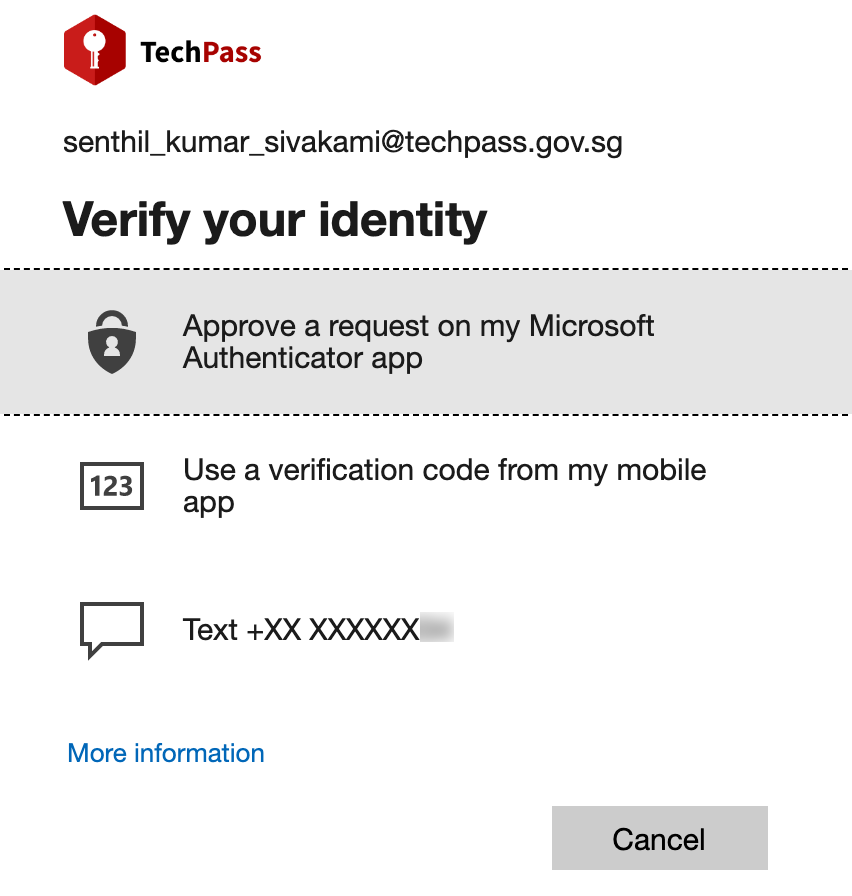
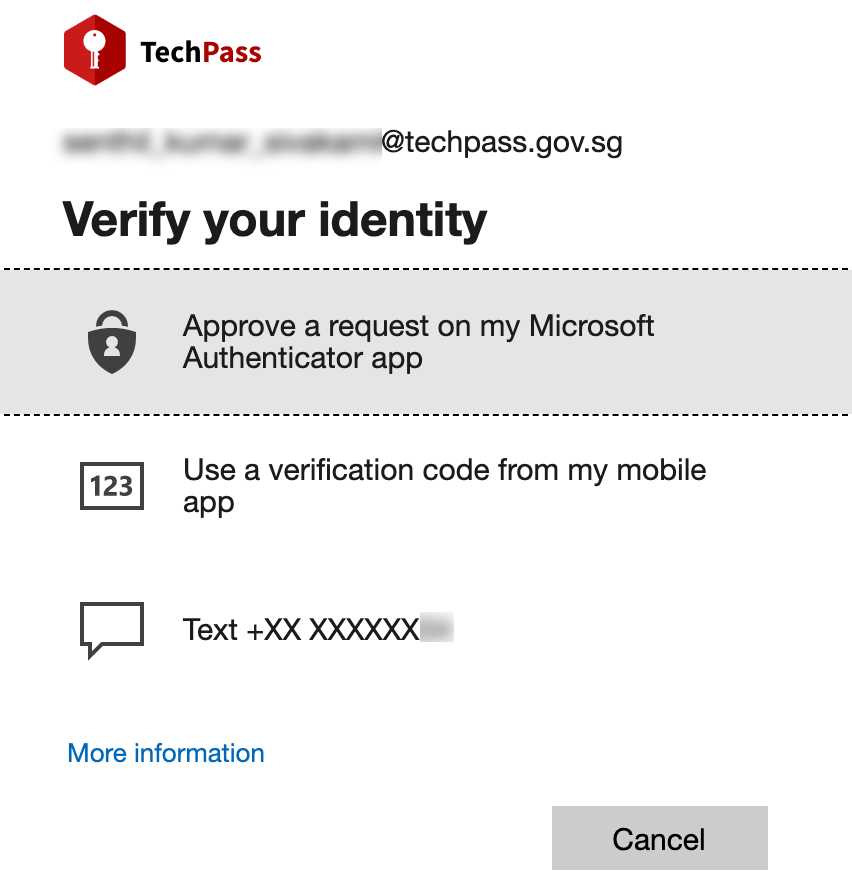
updated the landing page title, included new screenshot for po signup, blurred email ids, removed outdated info about DEEP, updated link text for TechPass Tenant Guide

Changed region(s): [[0.061, 0.125, 0.4577, 0.1875]]

diff --git a/docs/index.html b/docs/index.html
@@ -1,0 +1,24 @@
+<!DOCTYPE html>
+<html lang="en">
+<head>
+  <meta charset="UTF-8">
+  <title>Document</title>
+  <meta http-equiv="X-UA-Compatible" content="IE=edge,chrome=1" />
+  <meta name="description" content="Description">
+  <meta name="viewport" content="width=device-width, initial-scale=1.0, minimum-scale=1.0">
+  <link rel="stylesheet" href="//cdn.jsdelivr.net/npm/docsify@4/lib/themes/vue.css">
+</head>
+<body>
+  <div id="app"></div>
+  <script>
+    window.$docsify = {
+      name: '',
+      repo: ''
+      homepage: "home.md",
+      loadSidebar: true,
+    }
+  </script>
+  <!-- Docsify v4 -->
+  <script src="//cdn.jsdelivr.net/npm/docsify@4"></script>
+</body>
+</html>

diff --git a/docs/home.md b/docs/home.md
@@ -1,8 +1,8 @@
-# Welcome to ![banner](assets/banner.png)
+# Overview of TechPass
 
 !> As TechPass is currently in active development, information in this documentation is subject to change without notice and may not be the latest.
 
-## What is TechPass
+## What is TechPass?
 TechPass is an Identity & Access Management (IAM) and Single Sign On (SSO) Solution for services within the Singapore Government Technology Stack (SGTS).
 It provides a seamless login experience across SG TechStack services and allows to easily manage access control for users from a centralised location.
 
@@ -12,8 +12,7 @@ TechPass is powered by [Microsoft Azure AD service](https://azure.microsoft.com/
 TechPass allows engineering teams working on SGTS products to develop and roll out their services quickly by simplifying the process needed to implement a new service.
 
 TechPass utilises popular open standards such as, [OAuth 2.0](https://oauth.net/2/) / [OIDC](https://openid.net/connect/) (OpenID Connect)
-and [SAML 2.0](http://docs.oasis-open.org/security/saml/Post2.0/sstc-saml-tech-overview-2.0.html) (Security Assertion Markup Language),
-for authentication and authorisation.
+and [SAML 2.0](http://docs.oasis-open.org/security/saml/Post2.0/sstc-saml-tech-overview-2.0.html) (Security Assertion Markup Language), for authentication and authorisation.
 
 OAuth 2.0 SSO setup is available on TechPass Portal while SAML service is available only by request.
 Please reach to us [here](support/overview?id=need-more-help) if you need SAML support for your product and services.
@@ -21,7 +20,7 @@ Please reach to us [here](support/overview?id=need-more-help) if you need SAML s
 ## TechPass portal
 You can access [TechPass portal](https://portal.techpass.gov.sg) only from non-SE GSIB devices.  This portal allows you to set up SSO for SG TechStack products and manage IAM for your users.
 
-Refer to [TechPass Tenant user guide](https://docs.developer.tech.gov.sg/docs/techpass-tenant-guide/#/) to learn more about setting up SSO and manage your users.
+Refer to [TechPass Tenant Guide](https://docs.developer.tech.gov.sg/docs/techpass-tenant-guide/#/) to learn more about setting up SSO and manage your users.
 
 ?> You need to log in with your TechPass account to view this user guide.
 

diff --git a/docs/onboard-public-officers-using-non-se-machines.md b/docs/onboard-public-officers-using-non-se-machines.md
@@ -20,13 +20,14 @@ Following are the steps involved in your TechPass onboarding journey.
 
   <kbd>![sign-up](assets/images/onboarding/po-non-se/sign-up-new.png)</kbd>
 
-  2. Enter your organisational email address and select **I'm not a robot**.
+  2. Enter your organisational email address.
+  3. Indicate if you would like to onboard to SEED and select **I'm not a robot**.
 
   ?> Format of your organisational email address shall be *your_name<span>@</span>agency.gov.sg* or *your_name<span>@</span>tech.gov.sg*
 
-  <kbd>![sign-up-submit](assets/images/onboarding/po-non-se/sign-up-submit.png)</kbd>
+  <kbd>![sign-up-submit](assets/images/onboarding/po-non-se/latest-po-sign-up-non-se-gsib-1.png)</kbd>
 
-  3. Click **Submit**. An invitation will be sent to this email address.
+  4. Click **Submit**. An invitation will be sent to this email address.
 
   ?> A TechPass account is created for you but this will be in pending state. This becomes activated once you complete the onboarding journey which is explained in **Accept invitation** and **Onboard to TechPass**.
 

diff --git a/docs/support/signinissues.md b/docs/support/signinissues.md
@@ -15,8 +15,6 @@ You may encounter the following error when signing in to a WOG account from a GM
 ![mfa_error](../assets/support/mfa_error.jpg)
 
 ## DEEP (device compliance)
-<span style="color:red">(This is only enabled in the PROD environment and only users participating in the MDM End-to-End testing will encounter this issue.)</span>
-
 DEEP is a system that helps developers establish a robust security baseline for their devices, while ensuring only compliant devices can access Government engineering resources.
 
 ### Protecting developer devices
